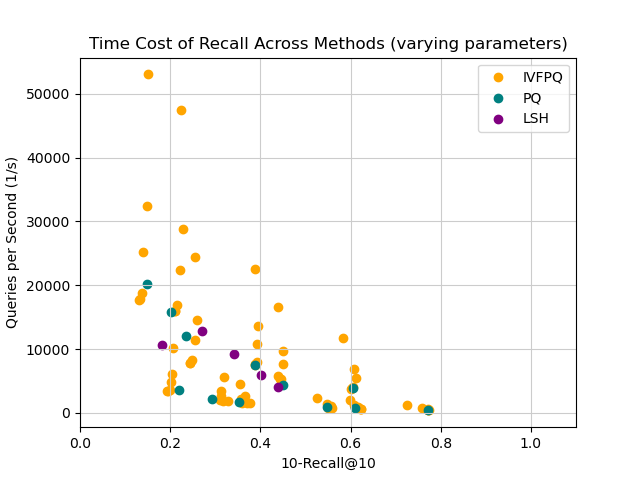
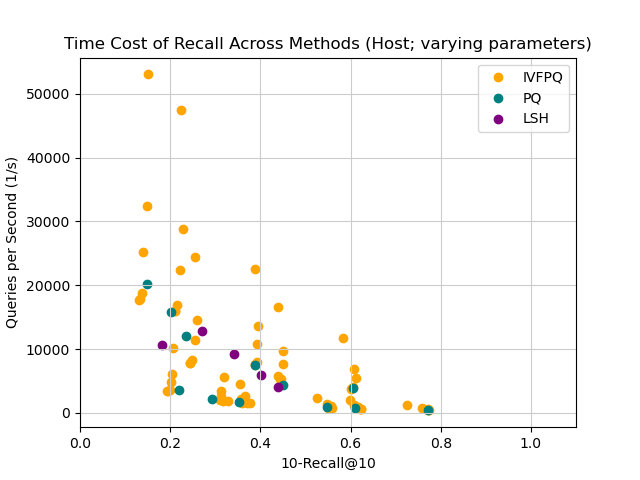
debug

Changed region(s): [[0.0938, 0.0625, 0.9375, 0.125]]

diff --git a/vector_similarity_test/graph_recall_vs_k.py b/vector_similarity_test/graph_recall_vs_k.py
@@ -1,0 +1,46 @@
+import matplotlib.pyplot as plt
+import numpy as np
+
+
+
+# DATA :
+k = [1, 2, 3, 5, 7, 10, 25, 50, 75, 100]
+
+# bf3_log_kvaried.txt
+bf3_lsh_recall = np.array([0.34230000000000244, 0.34230000000000244, 0.34230000000000244, 0.34230000000000244, 0.34230000000000244, 0.34230000000000244, 0.34230000000000244, 0.34230000000000244, 0.34230000000000244, 0.34230000000000244])
+bf3_pq_recall = np.array([0.39314999999999894, 0.39314999999999894, 0.39314999999999894, 0.39314999999999894, 0.39314999999999894, 0.39314999999999894, 0.39314999999999894, 0.39314999999999894, 0.39314999999999894, 0.39314999999999894])
+bf3_ivfpq_recall = np.array([0.3998499999999986, 0.3998499999999986, 0.3998499999999986, 0.3998499999999986, 0.3998499999999986, 0.3998499999999986, 0.3998499999999986, 0.3998499999999986, 0.3998499999999986, 0.3998499999999986])
+# bf3_lsh_time = np.array([0.6124464880364636, 0.6465808102705827, 0.6051685946683089, 0.6377954337125024, 0.6362066202952216, 0.6359510084148496, 0.6183263376976053, 0.6424111196926484, 0.6259694419956455, 0.6363421746063977])
+# bf3_pq_time = np.array([0.48051328569029766, 0.48096189539258677, 0.4775239360363533, 0.5435103597119451, 0.4799816623950998, 0.47724279505200684, 0.47887390564816695, 0.4835782786055158, 0.4799104716318349, 0.48275934198560816])
+# bf3_ivfpq_time = np.array([0.925549060649549, 0.9233574129951497, 0.925961427623406, 0.9367856880029043, 0.9297757456079125, 0.9333395007997751, 0.9292417430939773, 0.9871882176958025, 0.9297006060369313, 0.9327706807137778])
+
+# bf3host_log_kvaried.txt
+host_lsh_recall = np.array([0.3423, 0.3423, 0.3423, 0.3423, 0.3423, 0.3423, 0.3423, 0.3423, 0.3423, 0.3423])
+host_pq_recall = np.array([0.39265, 0.39265, 0.39265, 0.39265, 0.39265, 0.39265, 0.39265, 0.39265, 0.39265, 0.39265])
+host_ivfpq_recall = np.array([0.399, 0.399, 0.399, 0.399, 0.399, 0.399, 0.399, 0.399, 0.399, 0.399])
+# bf3host_lsh_time = np.array([0.20973216237810752, 0.25658843270502985, 0.20921152426550785, 0.2141566926923891, 0.20908481891577443, 0.2141543331090361, 0.23092106931532422, 0.2134851779167851, 0.21216268038066724, 0.21429943828843534])
+# bf3host_pq_time = np.array([0.2677502389997244, 0.26792405359447, 0.2683587089801828, 0.2660996736182521, 0.269898120003442, 0.2664060906196634, 0.2685565813444555, 0.2660772396872441, 0.2704737276459734, 0.2667563760187477])
+# bf3host_ivfpq_time = np.array([0.22847343663064143, 0.22769157929966846, 0.2279423512518406, 0.22780342198287448, 0.22777490969747305, 0.22767835793395838, 0.22850780561566353, 0.22784777839357653, 0.23144468766016266, 0.22766143929523727])
+
+
+
+# GRAPHS :
+plt.title("glove.6B.200d.txt: How Recall Varies with k\n(parameters chosen so that recall is 100% when k=1)")
+plt.grid(color='0.8')
+# plt.scatter(host_IVFPQ_k10_recall, host_IVFPQ_k10_time, color='orange')
+# plt.scatter(host_PQ_k10_recall, host_PQ_k10_time, color='teal')
+# plt.scatter(host_LSH_k10_recall, host_LSH_k10_time, color='purple')
+# plt.ylabel("Time (ms)")
+plt.plot(k, host_lsh_recall   ,       color='purple')
+plt.plot(k, host_pq_recall    ,       color='teal')
+plt.plot(k, host_ivfpq_recall ,       color='orange')
+plt.plot(k, bf3_lsh_recall    , 'o:', color='purple')
+plt.plot(k, bf3_pq_recall     , 'o:', color='teal')
+plt.plot(k, bf3_ivfpq_recall  , 'o:', color='orange')
+plt.ylabel("k-Recall@k")
+plt.xlabel("k")
+plt.ylim(0, 1.1)
+plt.legend(["Host LSH", "Host PQ", "Host IVFPQ", "BF3 LSH", "BF3 PQ", "BF3 IVFPQ"])
+# plt.show()#block=False)
+plt.savefig("results/recall_vs_k.png")
+plt.close()

diff --git a/vector_similarity_test/graph_recall_vs_speed.py b/vector_similarity_test/graph_recall_vs_speed.py
@@ -2,7 +2,7 @@ import matplotlib.pyplot as plt
 import numpy as np
 
 
-# DATA : All data comes from bf3host_log_k10_multi.txt
+# DATA : All data comes from bf3host_log_k10_multi.txt, run on glove.6B.200d.txt
 host_LSH_k10_recall   =   np.array([0.1814, 0.2716, 0.3422, 0.4014, 0.4389])
 host_LSH_k10_time     =   np.array([0.09369638, 0.07801421, 0.10790243, 0.16929569, 0.24661489]) # All these are Search times, not build
 
@@ -40,7 +40,7 @@ host_IVFPQ_k10_time   = np.array([0.05645957, 0.06282316, 0.12887639, 0.13357753
 #   HOWEVER, instead we will use queries per second (1000 / times)
 
 # GRAPHS :
-plt.title("Time Cost of Recall Across Methods (varying parameters)")
+plt.title("Time Cost of Recall Across Methods (Host; varying parameters)")
 plt.grid(color='0.8')
 # plt.scatter(host_IVFPQ_k10_recall, host_IVFPQ_k10_time, color='orange')
 # plt.scatter(host_PQ_k10_recall, host_PQ_k10_time, color='teal')
@@ -58,14 +58,14 @@ plt.savefig("results/recall_vs_speed.png")
 plt.close()
 
 # Logarithmic Graph:
-plt.title("Time Cost of Recall Across Methods (varying parameters)")
+plt.title("Time Cost of Recall Across Methods (Host; varying parameters)")
 plt.grid(color='0.8')
 plt.loglog(host_IVFPQ_k10_recall, 1000/host_IVFPQ_k10_time, 'o', color='orange')
 plt.loglog(host_PQ_k10_recall, 1000/host_PQ_k10_time, 'o', color='teal')
 plt.loglog(host_LSH_k10_recall, 1000/host_LSH_k10_time, 'o', color='purple')
 plt.ylabel("Queries per Second (1/s)")
 plt.xlabel("10-Recall@10")
-plt.xlim(0, 1.1)
+# plt.xlim(0, 1.1)
 plt.legend(["IVFPQ", "PQ", "LSH"])
 # plt.show()#block=False)
 plt.savefig("results/recall_vs_speed_logarithmic.png")

diff --git a/vector_similarity_test/build_indexes.py b/vector_similarity_test/build_indexes.py
@@ -239,8 +239,8 @@ if __name__ == "__main__":
     train_i = [i for i in range(400000) if (i+199)%200] # len is ~398000
     x_query = df.iloc[test_i]
     x_train = df.iloc[train_i]
-    print("Train Size:", len(test_i))
-    print("Test  Size:", len(train_i))
+    print("Train Size:", len(train_i))
+    print("Test  Size:", len(test_i))
 
     # # Presets based on 200 dimensions and best results with k=10
     # lsh_nbits = 8*d
@@ -265,7 +265,7 @@ if __name__ == "__main__":
     results = []
     for k in [1, 2, 3, 5, 7, 10, 25, 50, 75, 100]:
         print(f"Searching with k={k}...\r", end='')
-        results.append(test_search(k=10, r=3, verbose=False))
+        results.append(test_search(k=k, r=3, verbose=False))
     bf_time, lsh_recall, lsh_time, pq_recall, pq_time, ivfpq_recall, ivfpq_time = zip(*results)
     print("Brute Force Time:", bf_time)
     print("LSH Recall:", lsh_recall)
